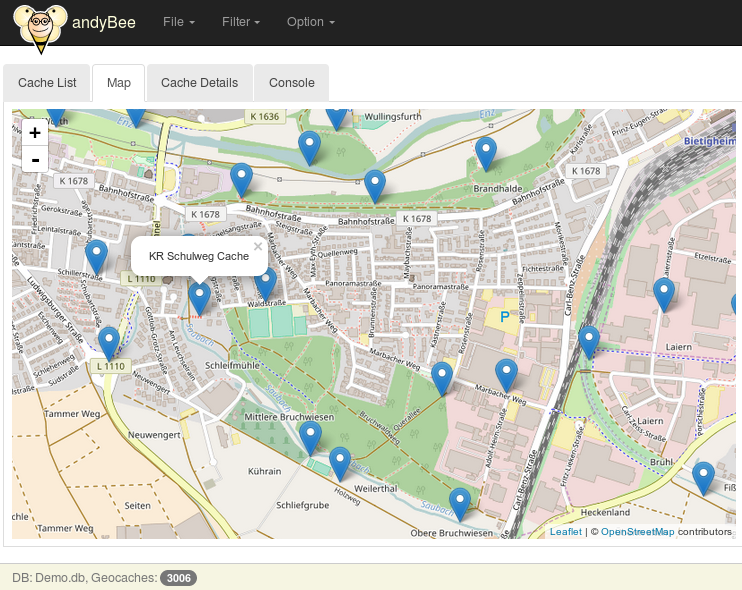
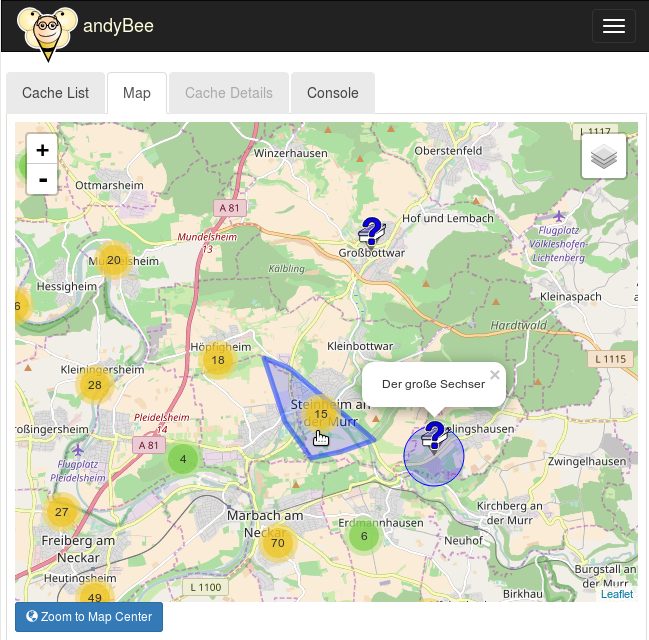
Documentation adapted for the clustering feature

diff --git a/doc/screenshots.md b/doc/screenshots.md
@@ -14,8 +14,22 @@ This site provides a collection of some screenshots
 > [<img src="screenshots/cachelogs.png" alt="Drawing" style="width: 200px;"/>](screenshots/cachelogs.png)
 
 ## Map
-Note, this is only rudimentary implemented and will be improved in the future.
+
+On the following screenshot the blue circle indicates the current center of the map.
+
+Additionally the screenshot shows the clustering feature. Instead of flooding the map with
+geocache markers, multiple markers are clustered and represented by circles with
+the number of geocaches in the center. When zooming in (or out), the clusters are expanded as required.
+
+Hovering over a cluster shows the polygon of the area covered by the cluster.
+
+A click on a cluster zooms in into the corresponding area.
+
 > [<img src="screenshots/map.png" alt="Drawing" style="width: 200px;"/>](screenshots/map.png)
+
+The following screenshot shows how a cluster is expanded when clicking on it.
+> [<img src="screenshots/map2.png" alt="Drawing" style="width: 200px;"/>](screenshots/map2.png)
+
 
 # Filter
 > [<img src="screenshots/filter.png" alt="Drawing" style="width: 200px;"/>](screenshots/filter.png)

diff --git a/README.md b/README.md
@@ -10,7 +10,6 @@ The status of this SW is pre-alpha. A lot of features are simply not yet impleme
 The following features are incomplete (and this list is incomplete as well):
 
 * Filters are only implemented for a very limited set of properties
-* The map does not provide much functionality right now, and for a larger number of geocaches the responsiveness is rather slow
 * Updating the coordinates of geocaches (e.g. for solved mysteries) is not yet implemented
 * DB-maintenance not implemented, e.g. delete geocaches which are not updated for a specific time period
 * Preferences needs to be extended
